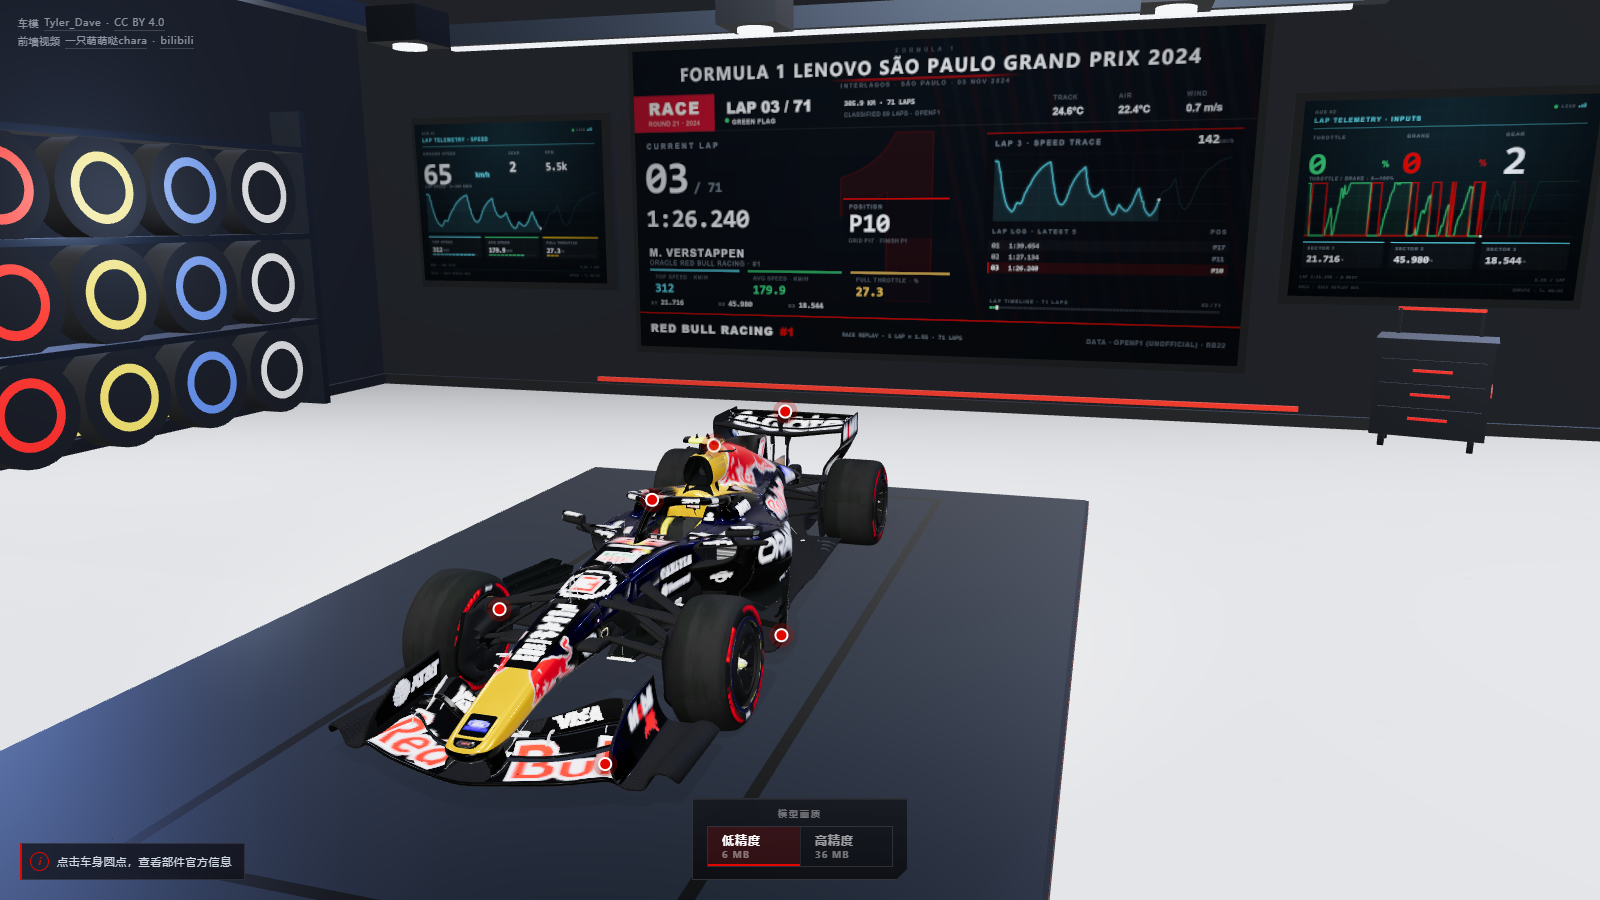
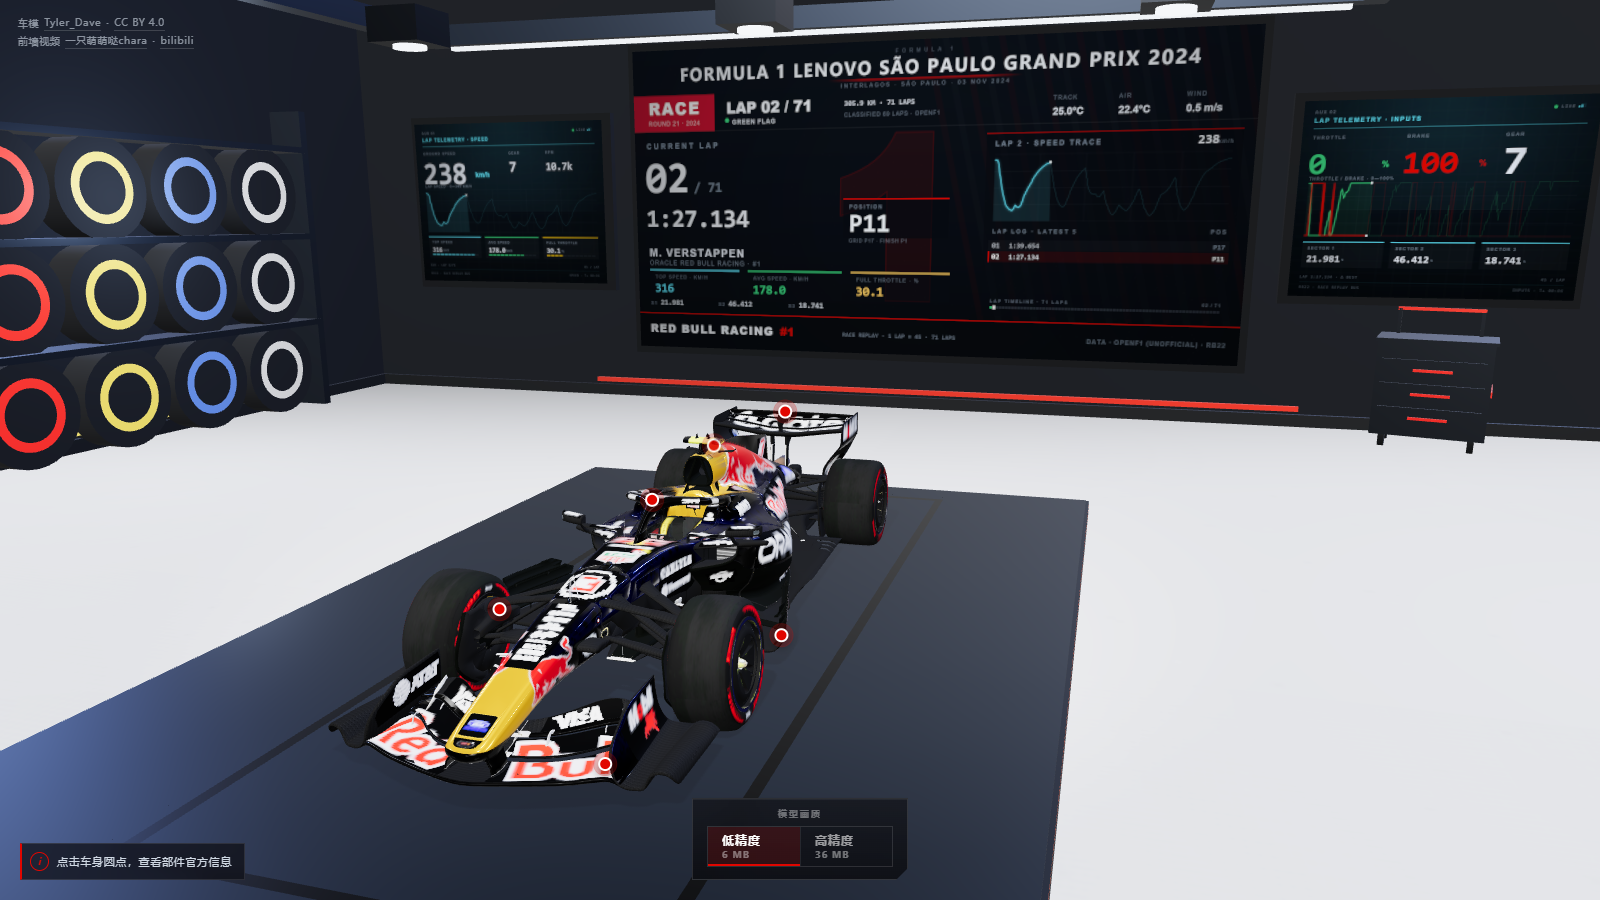
feat(telemetry): 回放每圈从 1.5s 调整为 4s
71 圈约 284s，完赛定格 5s；第 70/71 圈红旗占位同样每圈 4s。

三屏底部的节奏标签改为动态读取 RACE_REPLAY_CONFIG，不再写死 1.5S。

同步 README / PROJECT_CONTEXT / 方案文档，并按 4s 版本重拍默认视角图。

diff --git a/src/core/ProceduralTextures.ts b/src/core/ProceduralTextures.ts
@@ -195,7 +195,7 @@ export function createFloorTexture(floor: RoomConfig["floor"]): CanvasTexture {
  *
  * 数据来自 OpenF1 的 2024 圣保罗正赛（session_key 9636）：
  * 官方分类 69 圈，展示上补到原定的 71 圈，第 70、71 圈没有遥测，
- * 用红旗占位各停 1.5s。时间轴常量在 `config/raceReplay.ts`。
+ * 用红旗占位各停 4s。时间轴常量在 `config/raceReplay.ts`。
  *
  * 为什么把圈数 / 播放头 / 完赛状态放在这里统一算：
  * 三块屏各自只有一张 canvas 贴图，刷新时刻也略有差异；只要它们都从
@@ -263,6 +263,7 @@ interface RaceTelemetry {
 const RACE = raceTelemetryJson as unknown as RaceTelemetry;
 const RACE_LAPS = RACE.lapList.length;
 const RACE_LAP_SECONDS = RACE_REPLAY_CONFIG.lapSeconds;
+const RACE_LAP_LABEL = Number.isInteger(RACE_LAP_SECONDS) ? `${RACE_LAP_SECONDS}S` : `${RACE_LAP_SECONDS.toFixed(1)}S`;
 const RACE_RACE_SECONDS = RACE_LAPS * RACE_LAP_SECONDS;
 const RACE_CYCLE_SECONDS = RACE_RACE_SECONDS + RACE_REPLAY_CONFIG.finishHoldSeconds;
 const EMPTY_SAMPLE: RaceSampleRow = [0, 0, 0, 0, 0, 0];
@@ -367,7 +368,7 @@ interface ReplayState {
 /**
  * 把「页面运行了多少秒」映射成「第几圈、圈内进度」。
  *
- * 上电扫描 1.5s 后发车；69 圈真实数据 + 2 圈红旗占位各 1.5s；
+ * 上电扫描 1.5s 后发车；69 圈真实数据 + 2 圈红旗占位各 4s；
  * 跑完后定格 5s，再从头循环。所有屏都调用这一个函数，状态天然一致。
  */
 function replayStateAt(elapsedSeconds: number): ReplayState {
@@ -507,7 +508,7 @@ function drawSweptTrace(
     context.shadowBlur = 0;
     context.restore();
 
-    // 播放头：落在当前读数上，1.5s 扫完整圈
+    // 播放头：落在当前读数上，4s 扫完整圈
     if (options.dots ?? true) {
       context.fillStyle = "#f2fbff";
       context.beginPath();
@@ -968,7 +969,7 @@ function drawRaceBottomBar(context: CanvasRenderingContext2D, width: number, hei
 
   context.fillStyle = "rgba(159, 179, 200, 0.72)";
   context.font = '500 21px Consolas, "Courier New", monospace';
-  context.fillText(`RACE REPLAY · 1 LAP = ${RACE_LAP_SECONDS.toFixed(1)}S · ${RACE_LAPS} LAPS`, 760, height - 56);
+  context.fillText(`RACE REPLAY · 1 LAP = ${RACE_LAP_LABEL} · ${RACE_LAPS} LAPS`, 760, height - 56);
 
   context.textAlign = "right";
   context.fillStyle = "rgba(159, 179, 200, 0.55)";
@@ -1472,7 +1473,7 @@ export function createTelemetryScreenTexture(side: TelemetrySide): {
       context.font = '500 15px Consolas, "Courier New", monospace';
       fillTracked(context, `VER · LAP ${displayLap.lap}/${RACE_LAPS}`, 40, 690, 2);
       context.textAlign = "right";
-      fillTracked(context, "1.5S / LAP", W - 40, 690, 2, "right");
+      fillTracked(context, `${RACE_LAP_LABEL} / LAP`, W - 40, 690, 2, "right");
       context.textAlign = "left";
     } else {
       context.textAlign = "left";
@@ -1540,7 +1541,7 @@ export function createTelemetryScreenTexture(side: TelemetrySide): {
         2,
       );
       context.textAlign = "right";
-      fillTracked(context, "1.5S / LAP", W - 40, 690, 2, "right");
+      fillTracked(context, `${RACE_LAP_LABEL} / LAP`, W - 40, 690, 2, "right");
       context.textAlign = "left";
     }
 

diff --git a/src/config/raceReplay.ts b/src/config/raceReplay.ts
@@ -6,18 +6,18 @@
  *
  * 为什么是 71 圈而不是官方分类的 69 圈：
  * 正赛原定 71 圈，第 33 圈红旗后实际只跑到第 69 圈；展示上保留完整的 71 圈，
- * 第 70、71 圈没有遥测，用「红旗占位」各停 1.5s，再进入完赛定格。
+ * 第 70、71 圈没有遥测，用「红旗占位」各停 4s，再进入完赛定格。
  */
 export const RACE_REPLAY_CONFIG = {
   /** 上电扫描结束后再发车，避免第 1 圈被扫描线盖住 */
   startDelaySeconds: 1.5,
   /** 每圈展示时长：69 圈真实数据 + 2 圈红旗占位 */
-  lapSeconds: 1.5,
+  lapSeconds: 4,
   /** 完赛定格：让最后的名次 / 成绩停得住，再从头循环 */
   finishHoldSeconds: 5,
   /**
    * 三屏 canvas 刷新间隔。
-   * 1.5s 一圈约 10 帧，圈数跳动和播放头都够顺；
+   * 4s 一圈约 26 帧，圈数跳动和播放头都够顺；
    * 低端机如果卡顿，调到 0.2（5fps）即可，其他逻辑不用动。
    */
   screenRefreshSeconds: 0.15,

diff --git a/src/config/showroom.ts b/src/config/showroom.ts
@@ -129,7 +129,7 @@ export interface RaceWallConfig extends PropPlacement {
   readonly screenOffset: number;
   /**
    * 刷新间隔（秒）。
-   * 回放每 1.5s 推进一圈，需要约 10 帧/圈才不显得跳格；
+   * 回放每 4s 推进一圈，需要约 26 帧/圈才不显得跳格；
    * 具体值由 `RACE_REPLAY_CONFIG.screenRefreshSeconds` 统一给出。
    */
   readonly refreshSeconds: number;
@@ -329,7 +329,7 @@ export const SHOWROOM_CONFIG: ShowroomConfig = {
     height: MAIN_SCREEN_HEIGHT,
     frameColor: '#05080d',
     screenOffset: 0.05,
-    // 与左右副屏共用回放刷新率：1.5s 一圈约 10 帧，圈数和播放头都跟得上
+    // 与左右副屏共用回放刷新率：4s 一圈约 26 帧，圈数和播放头都跟得上
     refreshSeconds: RACE_REPLAY_CONFIG.screenRefreshSeconds,
     // 1.3s：和展示台灯带/扫描光的节奏接近，够看清从上到下「擦亮」的过程
     bootSeconds: 1.3,

diff --git a/src/core/props/raceWall.ts b/src/core/props/raceWall.ts
@@ -13,7 +13,7 @@
  *
  * 刷新与上电：
  * - 三块屏按回放节奏以 `RACE_REPLAY_CONFIG.screenRefreshSeconds`（默认 0.15s）重画，
- *   每 1.5s 推进一圈，圈数、速度曲线和左右副屏的读数保持同步；
+ *   每 4s 推进一圈，圈数、速度曲线和左右副屏的读数保持同步；
  * - 启动时三块屏各做一次 1.3s 的自上而下扫描上电，主屏先亮、左右副屏延后
  *   0.12s 一起亮。上电完全在贴图里完成，不新增 DOM / 渲染层级，也不参与
  *   LiftStage 的换模时序。

diff --git a/docs/sao-paulo-2024-replay-plan.md b/docs/sao-paulo-2024-replay-plan.md
@@ -11,7 +11,7 @@
 
 把后墙三屏从「2026 上海站 Q3 单圈静态遥测」改成「2024 圣保罗正赛逐圈回放」：
 按正赛原定 **71 圈**展示，前 69 圈用 OpenF1 官方遥测，第 70、71 圈没有真数据、
-显示红旗占位；每圈 **1.5s**，主屏是回放仪表盘，左屏速度/RPM，右屏油门/刹车/挡位/分段；
+显示红旗占位；每圈 **4s**，主屏是回放仪表盘，左屏速度/RPM，右屏油门/刹车/挡位/分段；
 第 33 圈的真实红旗中断单独处理；播完 71 圈定格 5s 后循环。
 
 ---
@@ -53,7 +53,7 @@
    `redFlag: true`、`suspendedSeconds: 1433`；`time` 保留 1556.410，
    主屏日志显示「RED FLAG」而不是 25:56.410。
 3. **第 70、71 圈**：没有遥测，`samples: []`、`time: null`、`flag: "RED"`、
-   `redFlag: true`；回放里各占 1.5s，只显示红旗卡片。
+   `redFlag: true`；回放里各占 4s，只显示红旗卡片。
 4. **逐圈名次**：取该圈起点之前最近一条 `position` 事件。
    第 1 圈 P17；第 44 圈起 P1；完赛 P1。
 5. **逐圈天气**：取该圈起点之前最近一条 `weather`（air / track / wind），
@@ -135,8 +135,8 @@
 ```
 0 – 1.5s          上电扫描（主屏先亮，副屏 +0.12s）
 1.5s 起           第 1 圈
-每 1.5s          圈数 +1，遥测播放头扫完整圈
-1.5 + 71×1.5     第 71 圈结束（第 70/71 圈是红旗占位）
+每 4s            圈数 +1，遥测播放头扫完整圈
+1.5 + 71×4       第 71 圈结束（第 70/71 圈是红旗占位）
 + 5s             FINISH 定格
 + 循环           回到第 1 圈
 ```
@@ -146,7 +146,7 @@
 ```ts
 export const RACE_REPLAY_CONFIG = {
   startDelaySeconds: 1.5,
-  lapSeconds: 1.5,
+  lapSeconds: 4,
   finishHoldSeconds: 5,
   screenRefreshSeconds: 0.15
 } as const;
@@ -156,17 +156,17 @@ export const RACE_REPLAY_CONFIG = {
 
 ```ts
 const local = max(0, elapsedSeconds - 1.5);
-const cycle = 71 * 1.5 + 5;                 // 111.5s
+const cycle = 71 * 4 + 5;                   // 289s
 const cycleTime = local % cycle;
-const lapIndex = min(70, floor(cycleTime / 1.5));
-const lapProgress = cycleTime < 106.5
-  ? (cycleTime - lapIndex * 1.5) / 1.5
+const lapIndex = min(70, floor(cycleTime / 4));
+const lapProgress = cycleTime < 284
+  ? (cycleTime - lapIndex * 4) / 4
   : 1;
 const dataSeconds = lapProgress * telemetrySecondsOf(lap);
 ```
 
 第 33 圈只有约 25s 的行驶段，`telemetrySecondsOf` 取最后一个采样，
-所以不会把 25 分钟静止段塞进 1.5s 动画。
+所以不会把 25 分钟静止段塞进 4s 动画。
 
 ### 2.2 主屏（2048×1024）
 
@@ -178,7 +178,7 @@ const dataSeconds = lapProgress * telemetrySecondsOf(lap);
   （TOP SPEED / AVG SPEED / FULL THROTTLE）；S1 / S2 / S3。
 - 右区：本圈速度曲线（整圈暗线 + 已跑亮线 + 播放头）；逐圈日志（最近 5 行，
   新行追加、当前行高亮、红旗行显示 `RED FLAG`）；71 格时间轴（按圈状态染色）。
-- 底栏：`RED BULL RACING #1`、`RACE REPLAY · 1 LAP = 1.5S · 71 LAPS`、
+- 底栏：`RED BULL RACING #1`、`RACE REPLAY · 1 LAP = 4S · 71 LAPS`、
   `DATA · OPENF1 (UNOFFICIAL) · RB22`。
 - 第 71 圈（两圈红旗占位播完）后：`FINISH` / `2:06:54.430` / P1 / 69 圈统计；5s 后回第 1 圈。
 
@@ -188,7 +188,7 @@ const dataSeconds = lapProgress * telemetrySecondsOf(lap);
 - 大字当前速度 + `km/h`、`GEAR`、`RPM`。
 - 整圈速度曲线 + 播放头（和主屏同一条数据）。
 - `TOP SPEED` / `AVG SPEED` / `FULL THROTTLE`。
-- 底部 `VER · LAP xx/71`、`1.5S / LAP`。
+- 底部 `VER · LAP xx/71`、`4S / LAP`。
 
 ### 2.4 右副屏（输入 / 分段）
 
@@ -196,7 +196,7 @@ const dataSeconds = lapProgress * telemetrySecondsOf(lap);
 - 大字油门 % / 刹车 % / 挡位。
 - 油门（绿）/ 刹车（红）双曲线 + 播放头。
 - 三段用时 S1 / S2 / S3，本圈圈速 + 到当前个人最快圈的 Δ。
-- 底部 `LAP x:xx.xxx · Δ BEST`、`1.5S / LAP`。
+- 底部 `LAP x:xx.xxx · Δ BEST`、`4S / LAP`。
 
 ### 2.5 红旗圈
 
@@ -204,7 +204,7 @@ const dataSeconds = lapProgress * telemetrySecondsOf(lap);
   右区红色斜纹 + `SIGNAL SUSPENDED`；左右副屏红色卡片。
 - 第 70、71 圈：主屏显示 `RED FLAG` / `RACE ENDED · OFFICIAL 69 LAPS`；
   右区 `NO LAPS RAN · OFFICIAL CLASSIFICATION`；左右副屏红色卡片。
-- 三个红旗圈都只占 1.5s，然后继续下一圈；日志里对应行显示 `RED FLAG`。
+- 三个红旗圈都只占 4s，然后继续下一圈；日志里对应行显示 `RED FLAG`。
 
 ### 2.6 上电、刷新与性能
 
@@ -240,10 +240,10 @@ const dataSeconds = lapProgress * telemetrySecondsOf(lap);
 1. `npm run typecheck` 通过。
 2. `npm run build` 通过。
 3. `preview.html?view=wall` 实测：
-   - 上电后第 1 圈开始，圈数每 1.5s +1，直到 71。
+   - 上电后第 1 圈开始，圈数每 4s +1，直到 71。
    - 主屏圈速 / 名次 / 曲线 / 日志随圈数变化；日志逐圈追加。
    - 左屏速度 / RPM / TOP-AVG-FULL 与当前圈一致；右屏油门/刹车/挡位/三段一致。
-   - 第 33 圈红旗卡片，1.5s 后第 34 圈；第 70、71 圈红旗占位。
+   - 第 33 圈红旗卡片，4s 后第 34 圈；第 70、71 圈红旗占位。
    - 第 71 圈后 FINISH 定格 5s，再回第 1 圈。
    - 三屏同一圈同步；文字不溢出。
 4. 文档里不再有「当前数据是上海 Q3」的表述。
@@ -258,8 +258,8 @@ const dataSeconds = lapProgress * telemetrySecondsOf(lap);
 | 取舍 | 说明 |
 | --- | --- |
 | 第 70/71 圈是合成占位 | 官方只跑到 69 圈；按作者要求补到 71，画面明确写 `RACE ENDED · OFFICIAL 69 LAPS`，不伪造遥测 |
-| 第 33 圈只保留行驶段 | 25 分钟静止段会撑爆 1.5s 时间轴；日志仍保留真实圈速 25:56.410 |
+| 第 33 圈只保留行驶段 | 25 分钟静止段会撑爆 4s 时间轴；日志仍保留真实圈速 25:56.410 |
 | 逐圈名次是近似值 | OpenF1 位置事件稀疏，按圈起点取最近一条；画面只显示到整数名次 |
 | 0.55 MB JSON 进 bundle | 当前车模 6.6 MB、视频 66 MB，0.2 MB gzip 可接受；不改成运行时 fetch，避免新增异步状态 |
-| 刷新率 0.15s | 1.5s 一圈约 10 帧；低端机可退到 0.2s |
+| 刷新率 0.15s | 4s 一圈约 26 帧；低端机可退到 0.2s |
 | README hero 已重拍 | 默认视角图换成本次圣保罗回放后的后墙；热点 / 布景等其余 docs 截图未重跑 |

diff --git a/README.md b/README.md
@@ -48,7 +48,7 @@
 | 热点 | CSS2D 圆点（真实 `<button>`）、隐形代理球 Raycaster、拖拽阈值、背向淡出、全局淡入淡出 |
 | 信息卡 | 跟随投影、贴边收位、上方放不下自动翻到下方、窄屏贴底抽屉、Esc / 空白关闭 |
 | 展示间 | 13.6 × 13.6 封闭工房：环氧地坪、后墙三屏遥测墙（居中主屏 + 左右副屏）、灯桁架、轮胎墙、工具墙 |
-| 遥测屏 | 主屏顶部赛事字标（SÃO PAULO GRAND PRIX 2024）+ 2024 圣保罗正赛逐圈回放：每 1.5s 一圈，圈数 / 圈速 / 名次 / 速度曲线；左副屏速度 + RPM，右副屏油门 / 刹车 / 挡位 / 三段用时；第 33 圈红旗、第 70/71 圈红旗占位 |
+| 遥测屏 | 主屏顶部赛事字标（SÃO PAULO GRAND PRIX 2024）+ 2024 圣保罗正赛逐圈回放：每 4s 一圈，圈数 / 圈速 / 名次 / 速度曲线；左副屏速度 + RPM，右副屏油门 / 刹车 / 挡位 / 三段用时；第 33 圈红旗、第 70/71 圈红旗占位 |
 | 前墙视频大屏 | 车头正前方 8.18 × 4.6（16:9 原生画幅）大屏，本地 `Ver2024.mp4` 静音自动播放 + 循环；画面满铺、不压标题条 / ticker / 车手条；屏幕下方真实 3D 控制台：播放 / 暂停、±10s、可拖动进度、当前 / 总时长、静音 + 音量滑块；懒加载，失败回退海报 |
 | 光照 | SpotLight 光池 + RoomEnvironment 环境反射 + 阴影 + 雾 |
 | 兜底 | WebGL 2 预检、加载进度、解析提示、失败原因 + 重新加载、显卡上下文丢失提示 |
@@ -288,10 +288,10 @@ src/
 | 车手 | Max Verstappen（VER）· Oracle Red Bull Racing · #1 |
 | 成绩 | P17 起步 → P1 完赛，2:06:54.430，26 分 |
 | 遥测 | 69 圈官方分类数据，速度 / 转速 / 挡位 / 油门 / 刹车，原生约 3.7 Hz |
-| 展示 | 按原定 71 圈回放：每圈 1.5s；第 70、71 圈没有遥测，用红旗占位 |
+| 展示 | 按原定 71 圈回放：每圈 4s；第 70、71 圈没有遥测，用红旗占位 |
 | 来源 | [OpenF1](https://openf1.org/)（非官方，源头是 F1 live timing） |
 
-第 33 圈包含 25:56.410 的红旗中断：回放里只显示红旗卡片，跳过静止段，1.5s 后继续
+第 33 圈包含 25:56.410 的红旗中断：回放里只显示红旗卡片，跳过静止段，4s 后继续
 第 34 圈；第 70、71 圈同理，不画假曲线。主屏右侧的逐圈日志会一圈圈追加，左副屏看
 速度 / RPM，右副屏看油门 / 刹车 / 挡位 / 三段用时。
 

diff --git a/PROJECT_CONTEXT.md b/PROJECT_CONTEXT.md
@@ -260,7 +260,7 @@ export interface Hotspot {
 - 主屏是 2024 圣保罗正赛逐圈回放：69 圈官方遥测来自 OpenF1（非官方），
   展示上补到原定 71 圈，第 70、71 圈没有遥测、用红旗占位；数据在
   `src/data/ver-2024-sao-paulo-race.json`。第 33 圈红旗中断同样只显示卡片、跳过静止段
-- 回放节奏：上电 1.3s 后发车，每 1.5s 一圈，播完 71 圈定格 5s 再循环；
+- 回放节奏：上电 1.3s 后发车，每 4s 一圈，播完 71 圈定格 5s 再循环；
   三块屏按 0.15s（约 6.7fps）重画 canvas，由 `SceneManager.onFrame` 驱动
 - 启动时三块屏各做一次 1.3s 的自上而下扫描上电，主屏先亮、左右副屏延后 0.12s 一起亮；
   遮罩只画在各自贴图里，不新增 DOM / 渲染层级，也不参与 LiftStage 的换模时序
